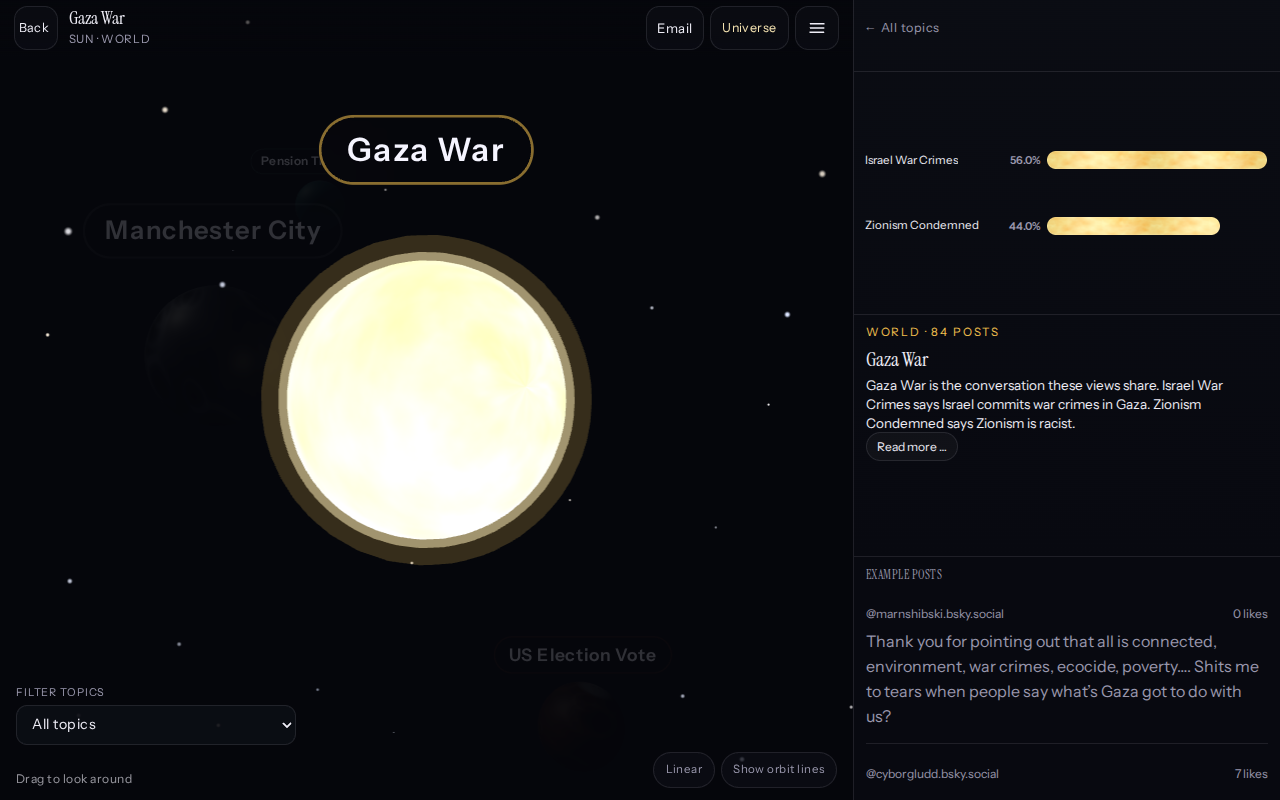
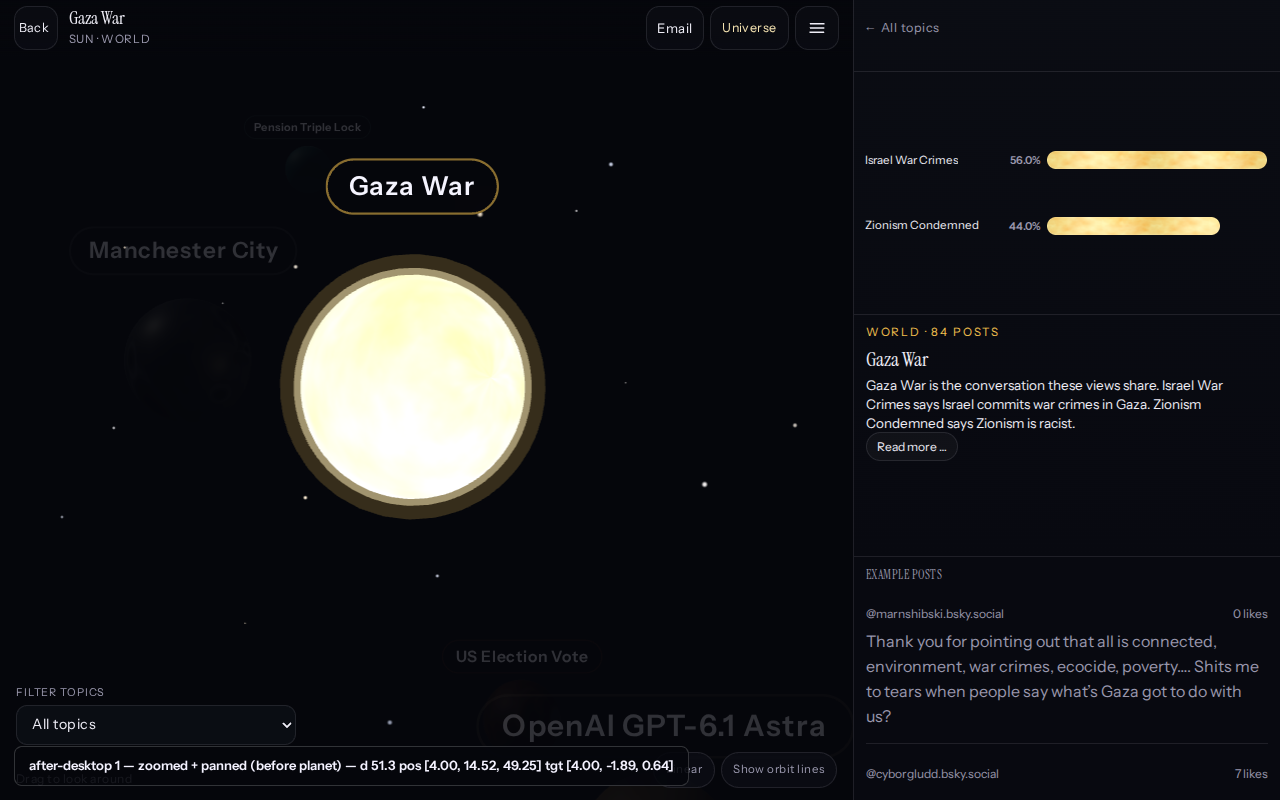
fix(observatory): separate off-home orbit labels; tighten camera restore e2e
- Run separateLabelBoxes on visible phone pills when zoomed off home
- Hysteresis on cameraOnHome to avoid label packer flicker
- E2E: desktop pan+zoom pose match; mobile labels visible and disjoint
- Recapture docs/evidence/pr-234 after-* frames and pose JSON

diff --git a/tests/e2e/camera-restore.spec.js b/tests/e2e/camera-restore.spec.js
@@ -51,8 +51,35 @@ async function dollySolarView(page, amount = 0.55) {
   await page.waitForTimeout(450)
 }
 
+async function panSolarView(page, x = 4, y = 2) {
+  await page.evaluate(([truckX, truckY]) => {
+    window.__PV_SOLAR_CAMERA__?.truck?.(truckX, truckY)
+  }, [x, y])
+  await page.waitForTimeout(450)
+}
+
 async function homeDistance(page) {
   return page.evaluate(() => window.__PV_SOLAR_CAMERA__?.homeDistance?.() ?? null)
+}
+
+async function expectVisibleOrbitLabelsNoOverlap(page) {
+  await expect.poll(async () => page.evaluate(() => {
+    const labels = [...document.querySelectorAll('.orbit-labels .planet-label')]
+    const visible = labels.filter((node) => getComputedStyle(node).visibility !== 'hidden' && node.offsetWidth >= 8)
+    if (visible.length < 1) return false
+    const boxes = visible.map((node) => {
+      const rect = node.getBoundingClientRect()
+      return { left: rect.left, top: rect.top, right: rect.right, bottom: rect.bottom }
+    })
+    for (let i = 0; i < boxes.length; i += 1) {
+      for (let j = i + 1; j < boxes.length; j += 1) {
+        const overlapX = Math.min(boxes[i].right, boxes[j].right) - Math.max(boxes[i].left, boxes[j].left)
+        const overlapY = Math.min(boxes[i].bottom, boxes[j].bottom) - Math.max(boxes[i].top, boxes[j].top)
+        if (overlapX > 0.5 && overlapY > 0.5) return false
+      }
+    }
+    return true
+  }), { timeout: 15_000 }).toBe(true)
 }
 
 async function drillPlanetAndBack(page, testInfo) {
@@ -72,11 +99,35 @@ async function drillPlanetAndBack(page, testInfo) {
   await page.waitForTimeout(700)
 }
 
+async function zoomAndPanSolar(page) {
+  await dollySolarView(page, 0.65)
+  await panSolarView(page, 4, 2)
+}
+
 test.describe('Solar camera restore', () => {
   test('returns to the same zoom and pan after leaving a planet', async ({ page }, testInfo) => {
     await enterSolarSystem(page)
     await waitForCamera(page)
-    await dollySolarView(page, 0.65)
+    await zoomAndPanSolar(page)
+    const before = await readCamera(page)
+    expect(before?.distance).toBeTruthy()
+    expect(Math.abs(before.target[0])).toBeGreaterThan(0.15)
+
+    await drillPlanetAndBack(page, testInfo)
+
+    const after = await readCamera(page)
+    expect(viewsMatch(before, after)).toBe(true)
+    for (let i = 0; i < 3; i += 1) {
+      expect(near(before.position[i], after.position[i])).toBe(true)
+      expect(near(before.target[i], after.target[i])).toBe(true)
+    }
+  })
+
+  test('mobile zoom, pan, and planet exit restore pose and orbit labels', async ({ page }, testInfo) => {
+    test.skip(testInfo.project.name !== 'mobile', 'Phone-only orbit label overlay')
+    await enterSolarSystem(page)
+    await waitForCamera(page)
+    await zoomAndPanSolar(page)
     const before = await readCamera(page)
     expect(before?.distance).toBeTruthy()
 
@@ -84,6 +135,11 @@ test.describe('Solar camera restore', () => {
 
     const after = await readCamera(page)
     expect(viewsMatch(before, after)).toBe(true)
+    for (let i = 0; i < 3; i += 1) {
+      expect(near(before.position[i], after.position[i])).toBe(true)
+      expect(near(before.target[i], after.target[i])).toBe(true)
+    }
+    await expectVisibleOrbitLabelsNoOverlap(page)
   })
 
   test('browser back from a planet restores the solar camera', async ({ page }, testInfo) => {

diff --git a/src/components/Observatory.jsx b/src/components/Observatory.jsx
@@ -172,16 +172,18 @@ function hideOrbitLabel(node) {
   node._orbitHold = 0
 }
 
-function cameraOnHome(camera, fitKey) {
+function cameraOnHome(camera, fitKey, { relaxed = false } = {}) {
   const home = fitKey.split(',').map(Number)
   if (home.length < 6) return true
   const dx = camera.position.x - home[0]
   const dy = camera.position.y - home[1]
   const dz = camera.position.z - home[2]
+  const posTol = relaxed ? 1.44 : 0.64
+  const aimTol = relaxed ? 0.12 : 0.08
   _labelPoint.set(home[3], home[4], home[5]).project(camera)
-  return dx * dx + dy * dy + dz * dz < 0.64
-    && Math.abs(_labelPoint.x) < 0.08
-    && Math.abs(_labelPoint.y) < 0.08
+  return dx * dx + dy * dy + dz * dz < posTol
+    && Math.abs(_labelPoint.x) < aimTol
+    && Math.abs(_labelPoint.y) < aimTol
     && _labelPoint.z < 1
 }
 
@@ -197,6 +199,7 @@ function placeOrbitLabelsAtCamera(nodes, topics, anchors, layout, camera, canvas
     right: Math.max(40, overlayRect.width - 4),
     bottom: Math.max(40, (chrome ? chrome.top - overlayRect.top : overlayRect.height) - 4),
   }
+  const visible = []
   nodes.forEach((node, index) => {
     const pos = anchors.current[topics[index].id]
     const width = node.offsetWidth
@@ -220,9 +223,23 @@ function placeOrbitLabelsAtCamera(nodes, topics, anchors, layout, camera, canvas
     }
     const left = Math.round(Math.min(Math.max(x - width / 2, bounds.left), bounds.right - width))
     const top = Math.round(Math.min(Math.max(y - height / 2, bounds.top), bounds.bottom - height))
+    visible.push({ index, box: { x: left, y: top, w: width, h: height } })
+  })
+
+  const nudges = visible.length > 0
+    ? separateLabelBoxes(visible.map((entry) => entry.box), bounds)
+    : []
+  const now = performance.now()
+  visible.forEach((entry, vi) => {
+    const node = nodes[entry.index]
+    const nudge = nudges[vi] || { x: 0, y: 0 }
+    const left = Math.round(entry.box.x + nudge.x)
+    const top = Math.round(entry.box.y + nudge.y)
+    if (node._orbitLeft === left && node._orbitTop === top) return
+    if (node._orbitLeft != null && now < (node._orbitHold || 0)) return
     node._orbitLeft = left
     node._orbitTop = top
-    node._orbitHold = 0
+    node._orbitHold = now + LABEL_HOLD_MS
     node.style.left = `${left}px`
     node.style.top = `${top}px`
     node.style.visibility = 'visible'
@@ -232,6 +249,7 @@ function placeOrbitLabelsAtCamera(nodes, topics, anchors, layout, camera, canvas
 function OrbitLabelPlacer({ enabled, topics, anchors, layout, fitKey }) {
   const nudges = useRef(null)
   const nudgeKey = useRef('')
+  const packAtHome = useRef(true)
 
   useFrame(({ camera, gl }) => {
     if (!enabled) return
@@ -243,7 +261,13 @@ function OrbitLabelPlacer({ enabled, topics, anchors, layout, fitKey }) {
     const overlayRect = overlay.getBoundingClientRect()
     if (canvasRect.width < 20 || canvasRect.height < 20) return
 
-    if (!cameraOnHome(camera, fitKey)) {
+    if (cameraOnHome(camera, fitKey, { relaxed: false })) {
+      packAtHome.current = true
+    } else if (!cameraOnHome(camera, fitKey, { relaxed: true })) {
+      packAtHome.current = false
+    }
+
+    if (!packAtHome.current) {
       placeOrbitLabelsAtCamera(nodes, topics, anchors, layout, camera, canvasRect, overlayRect)
       return
     }
